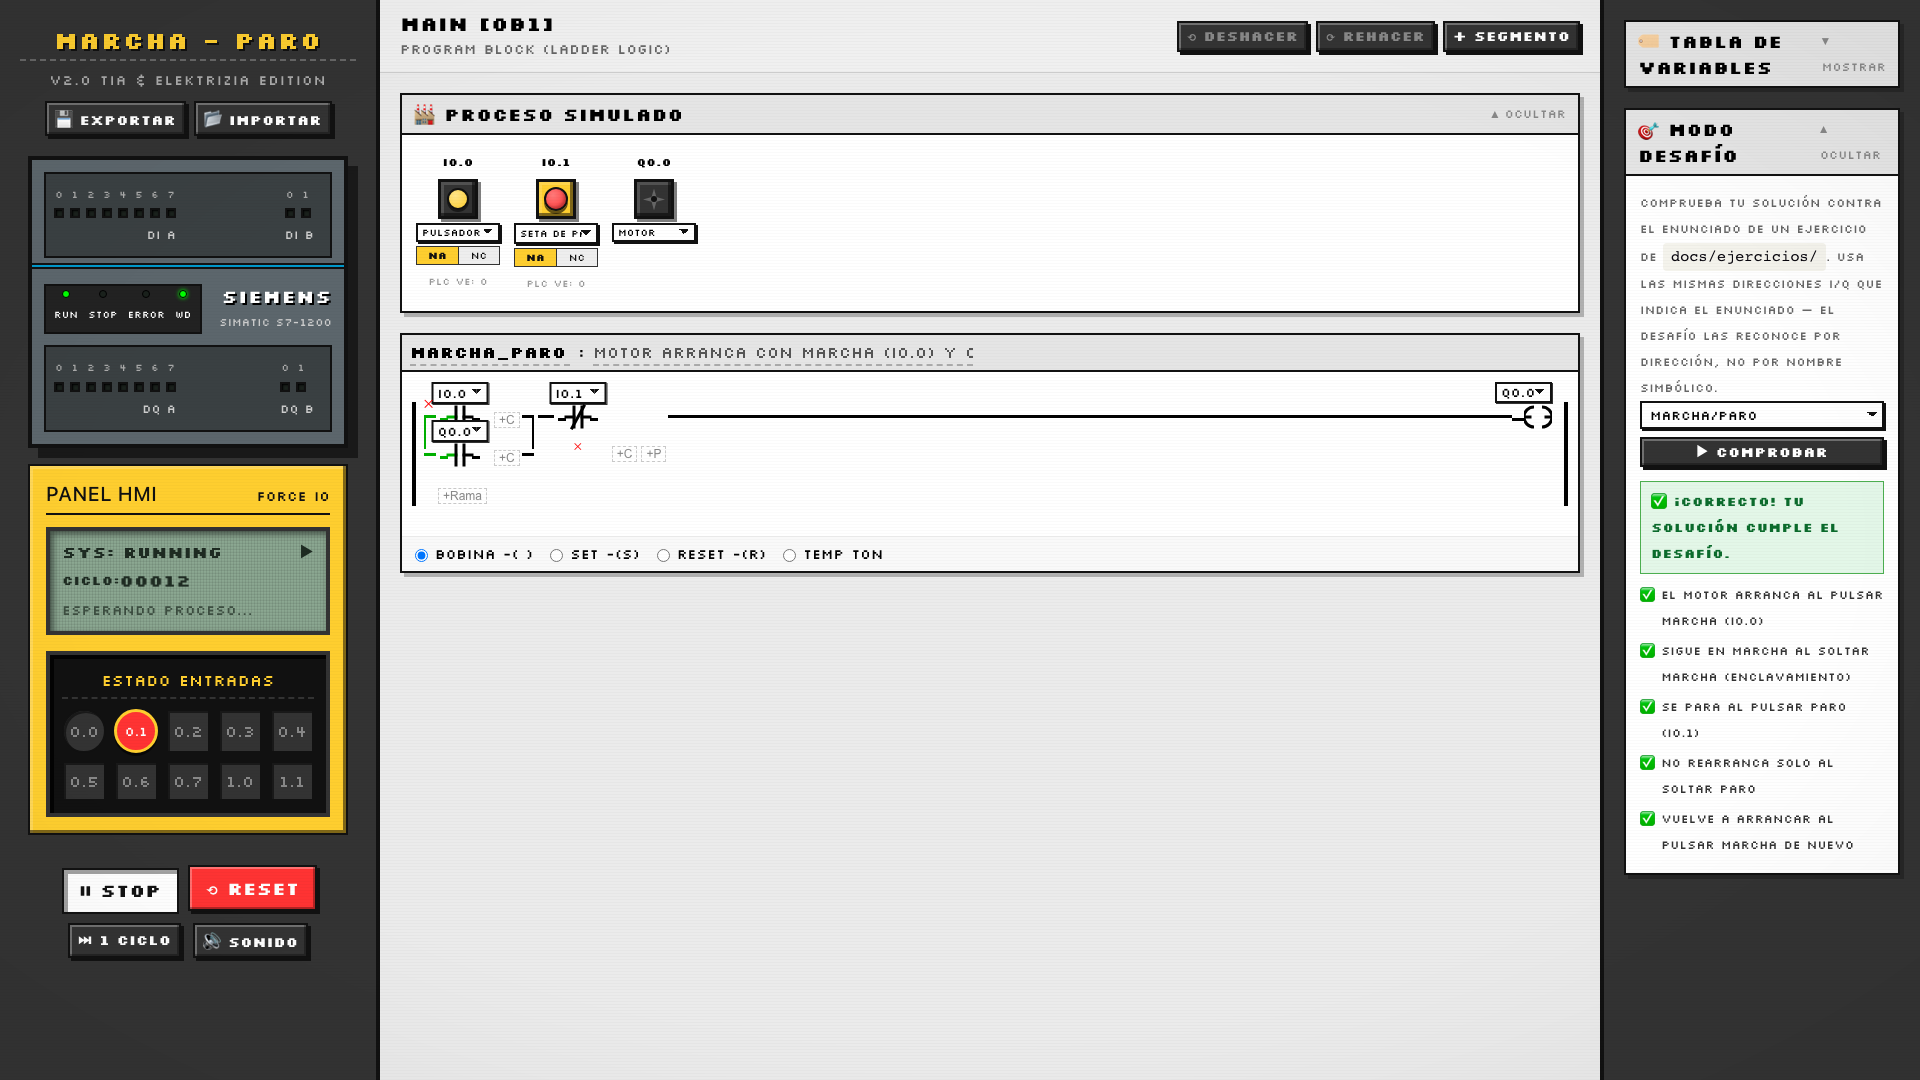
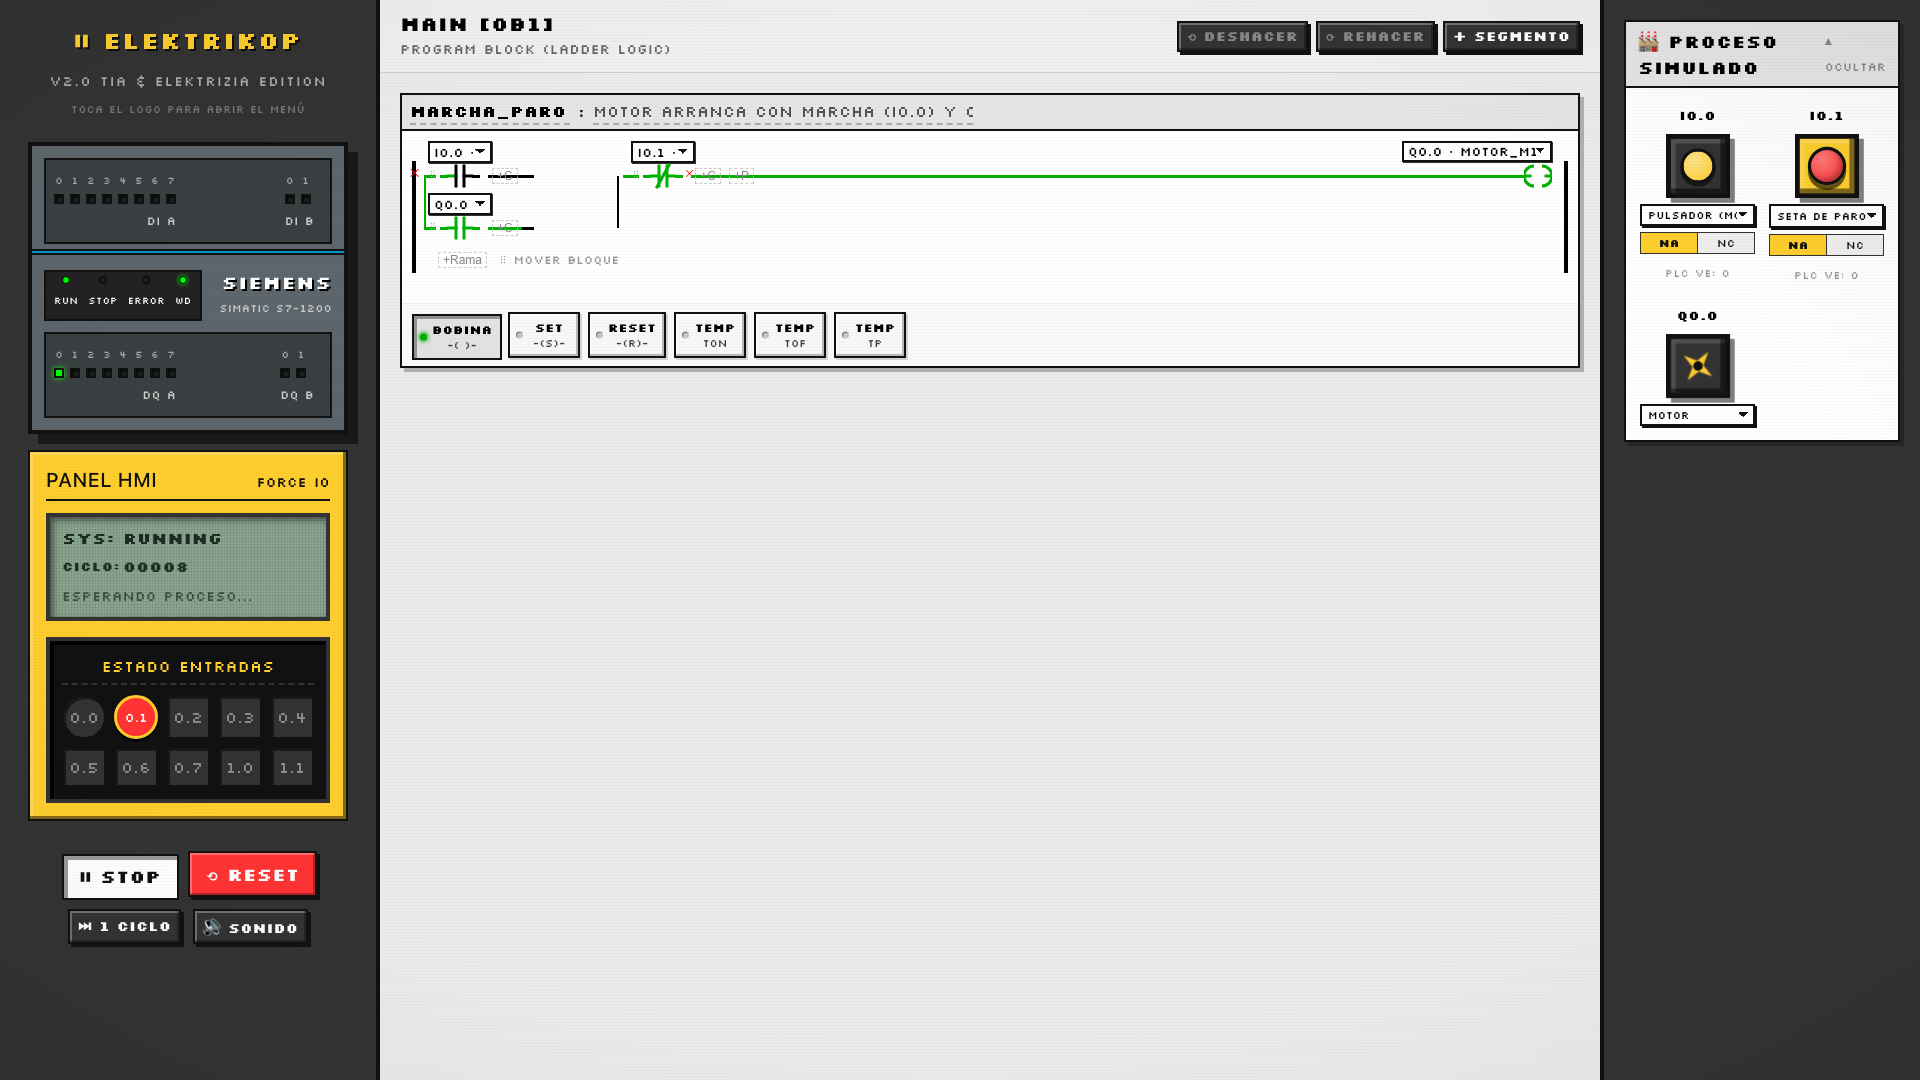
docs: actualizar README y captura con el menú de pausa y el nuevo layout
Refleja el menú de pausa, la reubicación del Proceso Simulado al lateral derecho, TOF/TP, flancos P/N y drag&drop en el editor.

Changed region(s): [[0.0, 0.0306, 1.0, 0.9167], [0.7188, 0.0917, 0.8125, 0.1833], [0.0312, 0.0306, 0.1875, 0.0611]]

diff --git a/README.md b/README.md
@@ -28,8 +28,9 @@ ElektriKOP no sustituye a TIA Portal — es un compañero de estudio: un sitio d
 
 **Editor KOP**
 - Segmentos con contactos en serie y en paralelo (ramas anidadas, sin límite artificial de profundidad).
-- Contactos NA / NC conmutables con un clic.
-- Bobina directa, SET, RESET y temporizador TON.
+- Contactos NA / NC / flanco positivo (P) / flanco negativo (N), conmutables con un clic.
+- Bobina directa, SET, RESET y temporizadores TON, TOF y TP — elegibles con clic o **arrastrando** el tipo de instrucción hasta la salida del segmento.
+- **Arrastrar y soltar** dentro del esquema: inserta contactos/bloques paralelos en cualquier posición, o mueve uno ya colocado a otra rama, con zonas de aterrizaje visuales mientras arrastras.
 - Visualización en tiempo real del flujo de corriente por el circuito, como en TIA Portal.
 - Detección de direcciones de salida duplicadas entre segmentos (evita bugs típicos de principiante).
 
@@ -46,22 +47,20 @@ ElektriKOP no sustituye a TIA Portal — es un compañero de estudio: un sitio d
 - Cada entrada puede marcarse como normalmente abierta o normalmente cerrada a nivel de dispositivo físico (por ejemplo, un termostato NC), independientemente del contacto que uses en el segmento — igual que en una instalación real.
 
 **Proceso simulado**
-- Asigna a cada dirección un dispositivo visual animado: motor, cinta transportadora, sensor, lámpara, alarma o puerta.
+- Asigna a cada dirección un dispositivo visual animado: pulsador, interruptor de palanca, seta de PARO, sensor, motor, cinta transportadora, lámpara, alarma, puerta o temporizador.
+- Vive en la barra lateral derecha, con iconos grandes (dos por fila) y su propio scroll — se queda visible mientras navegas por los segmentos, en vez de perderse de vista al hacer scroll por el editor.
 - Solo se muestran las direcciones que estás usando de verdad en tus segmentos.
 - Aviso sonoro (silenciable) cuando se activa una alarma.
 
-**Tabla de variables**
-- Asigna nombres simbólicos a tus direcciones (por ejemplo, `I0.2` → `Marcha_M1`) y verlos reflejados directamente en el editor.
+**Menú de pausa**
+- Se abre pulsando el logo "ElektriKOP" de la barra izquierda — como el menú de pausa de un videojuego, agrupa las acciones que no son la interacción constante del editor:
+  - **Proyecto**: renombrar, exportar/importar en JSON, o limpiar todo.
+  - **Tabla de variables**: asigna nombres simbólicos a tus direcciones (por ejemplo, `I0.2` → `Marcha_M1`). Puedes nombrar una dirección **antes incluso de usarla** en el editor con el botón "+ Añadir variable" — no hace falta esperar a colocar el contacto o la bobina.
+  - **Modo Desafío**: comprueba automáticamente si tu solución a uno de los [ejercicios propuestos](docs/ejercicios/) se comporta como debe, ciclo a ciclo — valida el resultado, no cómo has dibujado el circuito, así que cualquier forma correcta de resolverlo vale. Un distintivo flotante (✅/❌) queda visible junto al logo tras comprobar, aunque cierres el menú.
 
 **Deshacer/rehacer y autoguardado**
 - Ctrl+Z / Ctrl+Shift+Z (o los botones ⟲/⟳) para deshacer y rehacer, hasta 50 pasos.
 - El proyecto se autoguarda solo en el navegador — cerrar o recargar la pestaña por accidente ya no significa perder el trabajo.
-
-**Modo Desafío**
-- Comprueba automáticamente si tu solución a uno de los [ejercicios propuestos](docs/ejercicios/) se comporta como debe, ciclo a ciclo — valida el resultado, no cómo has dibujado el circuito, así que cualquier forma correcta de resolverlo vale.
-
-**Proyectos**
-- Exporta e importa proyectos completos en JSON — no pierdes tu trabajo al cerrar la pestaña, y puedes compartir ejercicios con compañeros o alumnos.
 
 ## Capturas
 
@@ -88,15 +87,14 @@ Abre `http://localhost:5173` (o el puerto que indique tu terminal) y listo.
 
 ## Cómo usar
 
-1. **Renombra el proyecto** haciendo clic en el título de la barra lateral.
-2. **Añade un segmento** con el botón correspondiente en el editor.
-3. **Añade contactos** en serie (`+C`) o en paralelo (`+P`), y elige su dirección (I o Q) en el desplegable.
-4. Haz clic sobre un contacto para alternarlo entre normalmente abierto (NA) y normalmente cerrado (NC).
-5. Elige el tipo de salida del segmento: bobina directa, SET, RESET o temporizador TON.
-6. Pulsa **RUN** para simular, o **1 CICLO** para avanzar el scan paso a paso.
-7. Usa el **Panel HMI** para activar tus entradas — interruptores, pulsadores o la seta de PARO, según cómo las hayas configurado en el **Proceso simulado**.
-8. Cuando quieras guardar tu trabajo, usa **Exportar** — te descarga un `.json` que puedes volver a cargar con **Importar** en cualquier momento. (No es imprescindible: tu proyecto se autoguarda solo, y siempre puedes deshacer con Ctrl+Z si te equivocas.)
-9. Si estás resolviendo uno de los [ejercicios propuestos](docs/ejercicios/), abre el panel **Modo Desafío** (barra derecha) y pulsa **Comprobar** para validar tu solución automáticamente.
+1. **Añade un segmento** con el botón correspondiente en el editor.
+2. **Añade contactos** en serie (`+C`) o en paralelo (`+P`) — con clic para añadir al final, o arrastrándolos hasta cualquier posición del esquema — y elige su dirección (I o Q) en el desplegable.
+3. Haz clic sobre un contacto para alternar entre normalmente abierto (NA), normalmente cerrado (NC), flanco positivo (P) y flanco negativo (N).
+4. Elige el tipo de salida del segmento (bobina directa, SET, RESET, TON, TOF o TP) con clic, o arrastrándolo desde la barra inferior hasta la salida del segmento.
+5. Pulsa **RUN** para simular, o **1 CICLO** para avanzar el scan paso a paso.
+6. Usa el **Panel HMI** para activar tus entradas — interruptores, pulsadores o la seta de PARO, según cómo las hayas configurado en el **Proceso simulado** (barra derecha).
+7. Pulsa el logo **ElektriKOP** (arriba a la izquierda) para abrir el **menú de pausa**: ahí puedes renombrar el proyecto, exportar/importar en JSON, nombrar variables y comprobar tu solución en Modo Desafío. Nada de esto es imprescindible en el día a día — tu proyecto se autoguarda solo, y siempre puedes deshacer con Ctrl+Z si te equivocas.
+8. Si estás resolviendo uno de los [ejercicios propuestos](docs/ejercicios/), abre el menú, entra en **Modo Desafío**, elige el ejercicio y pulsa **Comprobar** — el resultado queda visible en un distintivo junto al logo aunque cierres el menú.
 
 ## Ejercicios propuestos
 
@@ -113,8 +111,10 @@ En [`docs/ejercicios/`](docs/ejercicios/) encontrarás ejercicios de dificultad 
 - [x] Ejercicios propuestos y resueltos en `docs/ejercicios/`.
 - [x] Deshacer/rehacer y autoguardado.
 - [x] Modo Desafío: valida automáticamente el resultado esperado de un ejercicio.
-- [ ] Más tipos de temporizador (TOF, TP).
-- [ ] Contadores (CTU/CTD).
+- [x] Más tipos de temporizador (TOF, TP) y contactos de flanco (P/N).
+- [x] Arrastrar y soltar en el editor KOP (insertar y mover contactos/bloques paralelos, elegir el tipo de salida).
+- [x] Menú de pausa: agrupa proyecto, tabla de variables y Modo Desafío fuera del flujo principal del editor.
+- [ ] Contadores (CTU/CTD) + área de marcas (M) separada de las salidas (Q).
 - [ ] Comparadores numéricos (`>=`, `==`) sobre valores simulados.
 - [ ] Compartir proyectos mediante un enlace, sin necesidad de archivo.
 